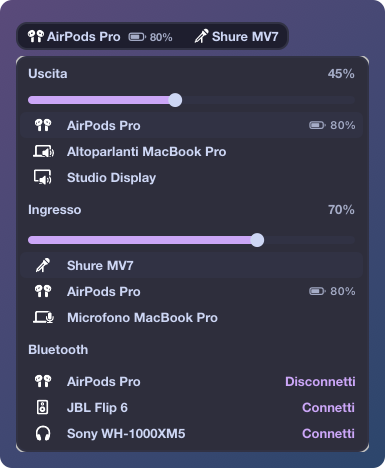
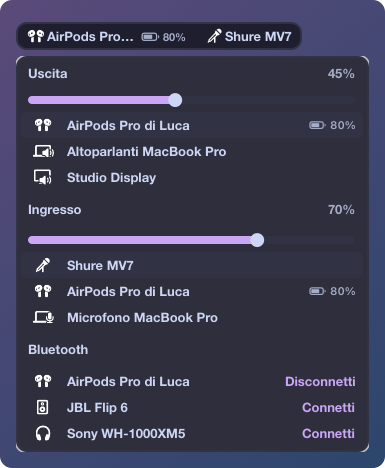
feat: enhance SketchyBar with notch support and various improvements
- Added support for displays with a notch, adjusting visible items accordingly.
- Updated calendar plugin to show event time and countdown with color changes based on proximity.
- Improved audio device display with shortened names for better visibility.
- Enhanced network plugin to separate VPN name display and improve layout.
- Refined system stats display, ensuring consistent behavior across displays.
- Added new screenshots to reflect recent changes and updates.
- Various code optimizations and comments for better maintainability.

diff --git a/sketchybar/helpers/calendar_events.swift b/sketchybar/helpers/calendar_events.swift
@@ -1,9 +1,11 @@
 // Next calendar event of the day for SketchyBar
 //   calendar_events <sketchybar path>   trigger calendar_change with the event to show, and again
 //                                       whenever it changes: KIND (upcoming, ongoing, allday, none
-//                                       or denied) and LABEL, the text for the bar, with EVENTS,
-//                                       all the events of the day for the popup of calendar.sh, when
-//                                       they change: the countdown of LABEL changes every minute
+//                                       or denied), TIME, the time the event starts, MINUTES, those
+//                                       left until then for an upcoming one, and LABEL, the rest of
+//                                       the text for the bar, with EVENTS, all the events of the day
+//                                       for the popup of calendar.sh, when they change: the
+//                                       countdown of LABEL changes every minute
 // The texts are in the language of the Mac, with the times in the format of its region
 // macOS grants calendar access to the app that asks for it, and a process started by sketchybar
 // would ask on behalf of AeroSpace: sketchybarrc builds this into calendar_events.app, with
@@ -40,10 +42,15 @@ func time(_ date: Date) -> String {
   date.formatted(date: .omitted, time: .shortened)
 }
 
-// e.g. 20 min, 1 h or 1 h 20 min, rounded up to the minute: at 9:29 an event at 9:30 is 1 min away,
-// and one that ends at 9:30 has 1 min left
+// Rounded up to the minute: at 9:29 an event at 9:30 is 1 min away, and one that ends at 9:30 has
+// 1 min left
+func minutesLeft(until date: Date, from now: Date) -> Int {
+  Int((date.timeIntervalSince(now) / 60).rounded(.up))
+}
+
+// e.g. 20 min, 1 h or 1 h 20 min
 func timeLeft(until date: Date, from now: Date) -> String {
-  let (hours, minutes) = Int((date.timeIntervalSince(now) / 60).rounded(.up)).quotientAndRemainder(dividingBy: 60)
+  let (hours, minutes) = minutesLeft(until: date, from: now).quotientAndRemainder(dividingBy: 60)
   if hours == 0 { return "\(minutes) min" }
   return minutes == 0 ? "\(hours) h" : "\(hours) h \(minutes) min"
 }
@@ -93,7 +100,7 @@ func list(_ events: [EKEvent], _ now: Date) -> String {
   }.joined(separator: "\n")
 }
 
-// KIND and LABEL, and EVENTS
+// KIND, TIME, MINUTES and LABEL, and EVENTS
 func current() -> (bar: [String], events: String) {
   guard EKEventStore.authorizationStatus(for: .event) == .fullAccess else {
     return (["KIND=denied", "LABEL=\(text.denied)"], "")
@@ -106,7 +113,7 @@ func current() -> (bar: [String], events: String) {
   return (bar(events, now), list(events, now))
 }
 
-// KIND and LABEL
+// KIND, TIME, MINUTES and LABEL
 func bar(_ events: [EKEvent], _ now: Date) -> [String] {
   let timed = events.filter { !$0.isAllDay && $0.endDate > now }
   let next = timed.first { $0.startDate > now }
@@ -114,11 +121,13 @@ func bar(_ events: [EKEvent], _ now: Date) -> [String] {
   if let ongoing = timed.filter({ $0.startDate <= now }).min(by: { $0.endDate < $1.endDate }),
      next.map({ ongoing.endDate <= $0.startDate }) ?? true {
     let left = timeLeft(until: ongoing.endDate, from: now)
-    return ["KIND=ongoing", "LABEL=" + String(format: text.until, title(ongoing), time(ongoing.endDate), left)]
+    return ["KIND=ongoing", "TIME=\(time(ongoing.startDate))",
+            "LABEL=" + String(format: text.until, title(ongoing), time(ongoing.endDate), left)]
   }
   if let next {
     let countdown = String(format: text.countdown, timeLeft(until: next.startDate, from: now))
-    return ["KIND=upcoming", "LABEL=\(time(next.startDate))  \(title(next)) · \(countdown)"]
+    return ["KIND=upcoming", "TIME=\(time(next.startDate))", "MINUTES=\(minutesLeft(until: next.startDate, from: now))",
+            "LABEL=\(title(next)) · \(countdown)"]
   }
   let allDay = events.filter(\.isAllDay)
   if !allDay.isEmpty {

diff --git a/README.md b/README.md
@@ -129,11 +129,20 @@ all'estrema destra, e la finestra attiva con il bordo sfumato.
 
 La barra è trasparente: ogni elemento, tranne il logo Apple, ha uno sfondo suo, un rettangolo
 arrotondato che galleggia sopra la scrivania, allineato ai bordi delle finestre. Quelli fatti di più parti ne hanno uno solo:
-i workspace, CPU/GPU/memoria e l'audio. I colori sono la palette
+i workspace, CPU/GPU/memoria, l'audio, la rete e il calendario. I colori sono la palette
 [Catppuccin Mocha](https://catppuccin.com/palette/#flavor-mocha), con il mauve (`#cba6f7`) come
 colore principale: il workspace attivo, oggi nel calendario, le voci dei popup che fanno qualcosa,
 gli slider e le barre. Sono tutti in `sketchybar/colors.sh`: per cambiare il colore principale basta
 cambiare `PRIMARY`.
+
+![La barra sul MacBook](screenshots/notch.png)
+
+Sul display del MacBook il notch copre il centro della barra, e gli elementi di destra finirebbero
+sotto. Lì CPU e GPU spariscono e resta solo la memoria, della VPN resta solo lo scudo e del
+calendario solo l'orario del prossimo evento, colorato secondo quanto manca (vedi sotto); un clic
+apre gli stessi popup. Gli altri
+monitor mostrano tutto. `plugins/notch.sh` riconosce i display con il notch e sposta gli elementi
+quando colleghi o scolleghi un monitor; quali elementi spariscono lo decide la sua lista `ITEMS`.
 
 Se la barra è vuota o mancano i workspace:
 
@@ -186,7 +195,7 @@ di sistema. Se un aggiornamento di macOS chiude anche questa strada, al posto de
 `Wi-Fi`. Con una VPN attiva, nella stessa pillola, prima della rete come in macOS, compaiono uno
 scudo verde e il suo nome: quello delle VPN di Impostazioni di Sistema e delle app VPN (WireGuard,
 Tailscale…), che macOS elenca in `scutil --nc list`, oppure `VPN` per quelle che macOS non conosce
-ma che si vedono dal loro tunnel (`utun`). La barra si aggiorna subito quando cambia la connessione principale e comunque ogni 30
+ma che si vedono dal loro tunnel (`utun`); sul MacBook c'è solo lo scudo. La barra si aggiorna subito quando cambia la connessione principale e comunque ogni 30
 secondi: la VPN può comparire o sparire con quel ritardo.
 Un clic sulla rete o sulla VPN apre l'indirizzo IP del Mac, quello pubblico, il router e la VPN, con
 il suo indirizzo. L'IP pubblico lo chiede a [ipify](https://www.ipify.org) a ogni apertura del popup:
@@ -257,7 +266,9 @@ simbolo, hanno il loro con un altoparlante o un microfono. Se sono lo stesso dis
 esempio cuffie Bluetooth, compare solo quello di uscita, e se ha i due simboli con l'altoparlante e
 il microfono affiancati. Lo stesso vale per altoparlanti e microfono del Mac, che diventano il Mac
 stesso, con il suo nome: per esempio `MacBook Pro`, la parte comune a `Altoparlanti MacBook Pro` e
-`Microfono MacBook Pro`. Dopo il nome dei dispositivi Bluetooth c'è la batteria, se macOS la
+`Microfono MacBook Pro`. I nomi più lunghi di 14 caratteri si fermano all'ultima parola che ci sta,
+con i puntini (`AirPods Pro…` per `AirPods Pro di Luca`); nel popup sono interi. Dopo il nome dei
+dispositivi Bluetooth c'è la batteria, se macOS la
 conosce: un'icona col livello (rossa dal 20% in giù) e la percentuale, più piccole e grigie del nome
 e aggiornate ogni due minuti. Per gli auricolari conta il lato più scarico.
 Le icone sono simboli SF, tranne quelle che SF Symbols non ha, immagini che `sketchybarrc` genera
@@ -298,9 +309,11 @@ swiftc -O ~/Developer/dotfiles/sketchybar/helpers/audio_devices.swift -o ~/Devel
 ![Il calendario](screenshots/calendar.png)
 
 Il calendario mostra il prossimo evento della giornata e quanto manca
-(`14:30  Riunione · tra 20 min`, oppure `tra 1 h 20 min`). Mentre un evento è in corso mostra
-quello e quanto manca alla fine (`Riunione · fino alle 15:00 (ancora 20 min)`), a meno che il
-successivo non inizi prima che finisca.
+(`14:30  Riunione · tra 20 min`, oppure `tra 1 h 20 min`). L'icona e l'orario cambiano colore man
+mano che l'evento si avvicina: bianchi, gialli da 30 minuti prima, arancioni da 15 e rossi da 5
+(le soglie sono in cima a `plugins/calendar.sh`). Mentre un evento è in corso mostra quello e quanto
+manca alla fine (`14:30  Riunione · fino alle 15:00 (ancora 20 min)`), con l'orario in viola come
+nel popup, a meno che il successivo non inizi prima che finisca. Sul MacBook c'è solo l'orario.
 Quando non restano eventi con orario compaiono quelli di tutto il giorno, e se non ci sono neanche
 quelli l'elemento sparisce. Legge tutti i calendari dell'app Calendario, tranne gli eventi
 annullati o rifiutati.
@@ -377,12 +390,12 @@ barra dei menu dell'app Claude, che `helpers/claude_icon.js` colora in `helpers/
 ![CPU, GPU e memoria](screenshots/system.png)
 
 Alla sinistra di Claude c'è quanto stanno lavorando la CPU, la GPU e la memoria, ognuna con la sua
-icona (un chip, un cubo, un banco di RAM) e la percentuale, aggiornate ogni 2 secondi. CPU e GPU
-diventano gialle dal 75% e rosse dal 90%. La memoria è la *Memoria utilizzata* di Monitoraggio
+icona (un chip, un cubo, un banco di RAM) e la percentuale, aggiornate ogni 2 secondi; sul MacBook
+c'è solo la memoria. CPU e GPU diventano gialle dal 75% e rosse dal 90%. La memoria è la *Memoria utilizzata* di Monitoraggio
 Attività (memoria delle app, wired e compressa) sul totale, e ha il colore della *Pressione
 memoria*, come il suo grafico: macOS tiene la memoria quasi piena di cache e di pagine compresse,
 quindi un 85% bianco è normale, mentre giallo e rosso vogliono dire che inizia a mancare.
-Un clic su uno dei tre apre i dettagli, aggiornati ogni 2 secondi finché il popup resta aperto: per
+Un clic su uno dei tre (o sulla memoria, sul MacBook) apre i dettagli di tutti e tre, aggiornati ogni 2 secondi finché il popup resta aperto: per
 ciascuno una barra e le 5 app che lo usano di più, con la loro icona. I processi di un'app contano
 insieme (per esempio tutti gli helper di Chrome) e quelli fuori da un'app, come WindowServer, hanno
 il loro nome e nessuna icona. Per la CPU ci sono anche il tempo di sistema, utente e inattivo, e le
